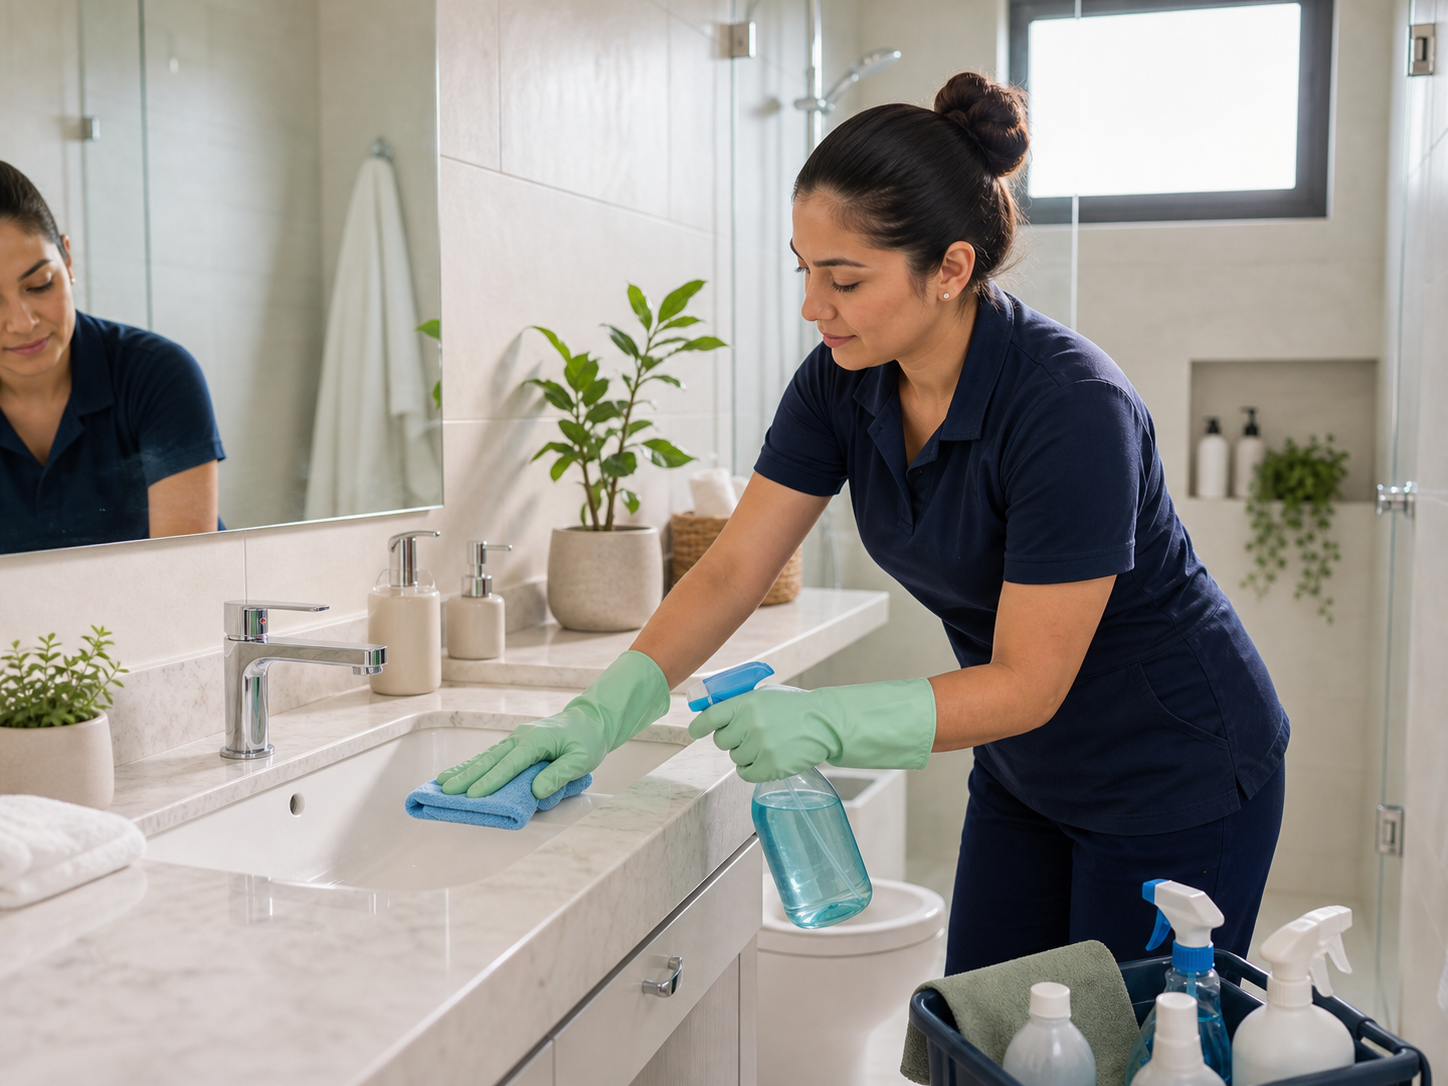
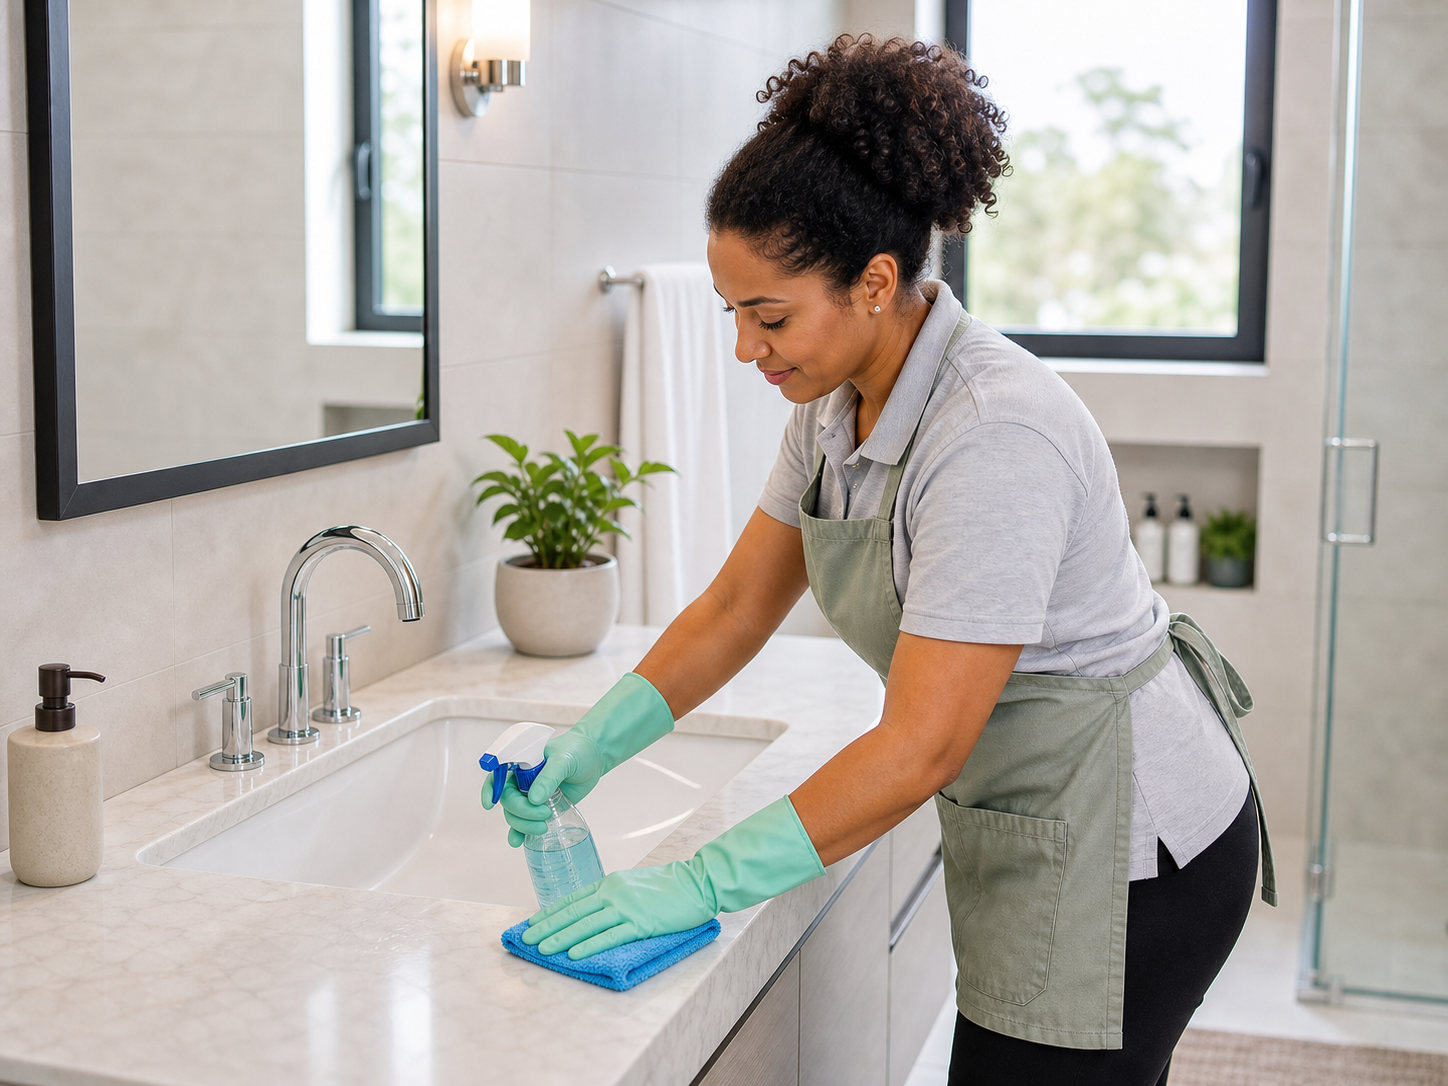
fix images and when dropdown

diff --git a/frontend/service.html b/frontend/service.html
@@ -164,11 +164,12 @@
       background: #111;
       color: #fff;
     }
+    .svc-schedule-panel { margin-top: 10px; }
     .svc-schedule-row {
       display: flex;
       gap: 8px;
-      margin-top: 10px;
     }
+    .svc-schedule-row .svc-sidebar__input { min-width: 0; }
     .svc-schedule-row input {
       flex: 1;
       padding: 9px 12px;
@@ -182,6 +183,8 @@
       transition: border-color 0.15s;
     }
     .svc-schedule-row input:focus { border-color: #111; background: #fff; }
+    .svc-time-select { flex: 0 0 42%; }
+    .svc-exact-time-row { margin-top: 8px; }
 
     .svc-sidebar__input {
       width: 100%;
@@ -1088,6 +1091,7 @@
   let serviceSubmitCompleted = false;
   let serviceEmailGatePending = false;
   let serviceEmailResumeInFlight = false;
+  const SVC_TIME_PREFS = ['exact', 'morning', 'afternoon', 'evening', 'whenever'];
 
   function createClientRequestId() {
     if (window.crypto && typeof window.crypto.randomUUID === 'function') {
@@ -1108,8 +1112,38 @@
     document.querySelectorAll('.svc-when-chip').forEach(btn => {
       btn.classList.toggle('active', btn.dataset.when === type);
     });
-    const schedRows = document.querySelectorAll('.svc-schedule-row');
-    schedRows.forEach(r => { r.style.display = type === 'schedule' ? 'flex' : 'none'; });
+    const schedPanels = document.querySelectorAll('.svc-schedule-panel');
+    schedPanels.forEach(r => { r.style.display = type === 'schedule' ? 'block' : 'none'; });
+  }
+
+  function getScheduleTimeOptions() {
+    const s = sp();
+    return [
+      { value: 'exact', label: s.timeExact || (lang() === 'es' ? 'Hora exacta' : 'Exact time') },
+      { value: 'morning', label: s.timeMorning || (lang() === 'es' ? 'Mañana' : 'Morning') },
+      { value: 'afternoon', label: s.timeAfternoon || (lang() === 'es' ? 'Tarde' : 'Afternoon') },
+      { value: 'evening', label: s.timeEvening || (lang() === 'es' ? 'Noche' : 'Evening') },
+      { value: 'whenever', label: s.timeWhenever || (lang() === 'es' ? 'Cuando sea' : 'Whenever') },
+    ];
+  }
+
+  function scheduleTimeLabel(pref) {
+    const match = getScheduleTimeOptions().find(opt => opt.value === pref);
+    return match ? match.label : '';
+  }
+
+  function setScheduleTimePreference(prefix, pref) {
+    const next = SVC_TIME_PREFS.includes(pref) ? pref : 'exact';
+    const select = document.getElementById(`svc-time-pref-${prefix}`);
+    if (select) select.value = next;
+    const exactRow = document.getElementById(`svc-exact-time-row-${prefix}`);
+    if (exactRow) exactRow.style.display = next === 'exact' ? 'block' : 'none';
+  }
+
+  function getScheduleTimePreference(prefix) {
+    const select = document.getElementById(`svc-time-pref-${prefix}`);
+    const value = select && select.value;
+    return SVC_TIME_PREFS.includes(value) ? value : 'exact';
   }
 
   function validateAndCollect(prefix) {
@@ -1156,8 +1190,13 @@
         dateInput.classList.remove('error');
         if (dateErr) dateErr.classList.remove('visible');
         preferredDate = dateInput.value;
-        const timeInput = document.getElementById(`svc-time-${prefix}`);
-        if (timeInput && timeInput.value) preferredTime = timeInput.value;
+        const timePref = getScheduleTimePreference(prefix);
+        if (timePref === 'exact') {
+          const timeInput = document.getElementById(`svc-time-${prefix}`);
+          if (timeInput && timeInput.value) preferredTime = timeInput.value;
+        } else {
+          preferredTime = scheduleTimeLabel(timePref);
+        }
       }
     }
 
@@ -1420,11 +1459,22 @@
           <button class="svc-when-chip" type="button" data-when="schedule"
                   onclick="window._svcToggleWhen('schedule')">${esc(s.whenSchedule || 'Programar')}</button>
         </div>
-        <div class="svc-schedule-row" style="display:none">
-          <input type="date" class="svc-sidebar__input" id="svc-date-${prefix}" min="${today}"
-                 placeholder="${esc(s.datePlaceholder || 'Fecha')}">
-          <input type="time" class="svc-sidebar__input" id="svc-time-${prefix}"
-                 placeholder="${esc(s.timePlaceholder || 'Hora (opcional)')}">
+        <div class="svc-schedule-panel" style="display:none">
+          <div class="svc-schedule-row">
+            <input type="date" class="svc-sidebar__input" id="svc-date-${prefix}" min="${today}"
+                   placeholder="${esc(s.datePlaceholder || 'Fecha')}">
+            <select class="svc-sidebar__input svc-time-select" id="svc-time-pref-${prefix}"
+                    onchange="window._svcSetTimePreference('${prefix}', this.value)"
+                    aria-label="${esc(s.timePreferenceLabel || (lang() === 'es' ? 'Preferencia de hora' : 'Time preference'))}">
+              ${getScheduleTimeOptions().map(opt => `
+                <option value="${esc(opt.value)}"${opt.value === 'exact' ? ' selected' : ''}>${esc(opt.label)}</option>
+              `).join('')}
+            </select>
+          </div>
+          <div class="svc-exact-time-row" id="svc-exact-time-row-${prefix}">
+            <input type="time" class="svc-sidebar__input" id="svc-time-${prefix}"
+                   placeholder="${esc(s.timePlaceholder || 'Hora (opcional)')}">
+          </div>
         </div>
         <div class="svc-error-msg" id="svc-date-err-${prefix}">${esc(s.dateError || 'Por favor selecciona una fecha')}</div>
 
@@ -1471,6 +1521,10 @@
 
   window._svcToggleWhen = function(type) {
     toggleWhen(type);
+  };
+
+  window._svcSetTimePreference = function(prefix, pref) {
+    setScheduleTimePreference(prefix, pref);
   };
 
   window._svcSubmit = function(prefix) {

diff --git a/frontend/admin.html b/frontend/admin.html
@@ -1004,11 +1004,19 @@ function scheduleRowText(o) {
   if (orderIsAsap(o) && !o.service_datetime) return '<span class="schedule-asap-text">ASAP</span> · pendiente de agendar';
   return escapeHtml(fmtServiceDateTime(o.service_date, o.service_datetime));
 }
+function isClockTimeValue(value) {
+  return /^\d{2}:\d{2}$/.test(String(value || '').trim());
+}
+function submissionSchedulePlainText(s) {
+  if (orderIsAsap(s)) return 'ASAP';
+  if (s.preferred_date) {
+    return `${fmtServiceDate(s.preferred_date)}${s.preferred_time ? ' · ' + s.preferred_time : ' · Hora por definir'}`;
+  }
+  return 'Pendiente';
+}
 function submissionScheduleText(s) {
   if (orderIsAsap(s)) return '<span class="schedule-asap-text">ASAP</span>';
-  if (s.preferred_date) {
-    return escapeHtml(`${fmtServiceDate(s.preferred_date)}${s.preferred_time ? ' · ' + s.preferred_time : ' · Hora por definir'}`);
-  }
+  if (s.preferred_date) return escapeHtml(submissionSchedulePlainText(s));
   return '<span style="color:var(--text-mute)">Pendiente</span>';
 }
 function scheduleDetailHtml(o) {
@@ -1806,9 +1814,10 @@ function openSubmissionLinkModal(subId) {
   // Remove existing modal if any
   document.getElementById('sub-modal-overlay')?.remove();
 
-  const datetimeValue = sub.preferred_date
-    ? (sub.preferred_date + (sub.preferred_time ? 'T' + sub.preferred_time : 'T00:00'))
+  const datetimeValue = sub.preferred_date && isClockTimeValue(sub.preferred_time)
+    ? (sub.preferred_date + 'T' + sub.preferred_time)
     : '';
+  const preferredSchedule = submissionSchedulePlainText(sub);
 
   const overlay = document.createElement('div');
   overlay.id = 'sub-modal-overlay';
@@ -1846,6 +1855,7 @@ function openSubmissionLinkModal(subId) {
         ${orderIsAsap(sub) ? '<div class="schedule-note"><strong>ASAP solicitado.</strong> Si ya acordaste una hora, asígnala aquí; si no, el pedido seguirá marcado como ASAP.</div>' : ''}
         <label class="form-label">Fecha y hora del servicio</label>
         <input class="adm-input" id="sub-datetime" type="datetime-local" value="${escapeHtml(datetimeValue)}" style="margin-bottom:0">
+        ${!orderIsAsap(sub) && (sub.preferred_date || sub.preferred_time) ? '<div class="schedule-helper">Preferencia cliente: ' + escapeHtml(preferredSchedule) + '</div>' : ''}
         ${orderIsAsap(sub) ? '' : '<div class="schedule-helper">Usa este campo para guardar la fecha y hora confirmada del servicio.</div>'}
       </div>
       <label style="display:flex;gap:10px;align-items:flex-start;margin-bottom:16px;color:#ddd;font-size:13px;line-height:1.4">
@@ -1895,7 +1905,7 @@ async function submitSubmissionLink(subId) {
   if (!isVisita && (!amount || amount <= 0)) { errEl.textContent = 'Monto requerido.'; errEl.style.display = 'block'; return; }
   if (email && !/^[^\s@]+@[^\s@]+\.[^\s@]+$/.test(email)) { errEl.textContent = 'Email inválido.'; errEl.style.display = 'block'; return; }
 
-  let serviceDate = '', serviceDateTime = '', hasTimeComponent = false;
+  let serviceDate = sub.preferred_date || '', serviceDateTime = '', hasTimeComponent = false;
   if (dtVal) {
     const d = new Date(dtVal);
     serviceDate = dtVal.slice(0, 10);

diff --git a/frontend/shared/i18n.js b/frontend/shared/i18n.js
@@ -187,6 +187,12 @@ const T = {
       whenSchedule: "Programar",
       datePlaceholder: "Fecha",
       timePlaceholder: "Hora (opcional)",
+      timePreferenceLabel: "Preferencia de hora",
+      timeExact: "Hora exacta",
+      timeMorning: "Mañana",
+      timeAfternoon: "Tarde",
+      timeEvening: "Noche",
+      timeWhenever: "Cuando sea",
       addressLabel: "Dirección del servicio",
       addressPlaceholder: "Calle, número, colonia",
       detailsLabel: "Detalles adicionales (opcional)",
@@ -927,6 +933,12 @@ const T = {
       whenSchedule: "Schedule",
       datePlaceholder: "Date",
       timePlaceholder: "Time (optional)",
+      timePreferenceLabel: "Time preference",
+      timeExact: "Exact time",
+      timeMorning: "Morning",
+      timeAfternoon: "Afternoon",
+      timeEvening: "Evening",
+      timeWhenever: "Whenever",
       addressLabel: "Service address",
       addressPlaceholder: "Street, number, neighborhood",
       detailsLabel: "Additional details (optional)",